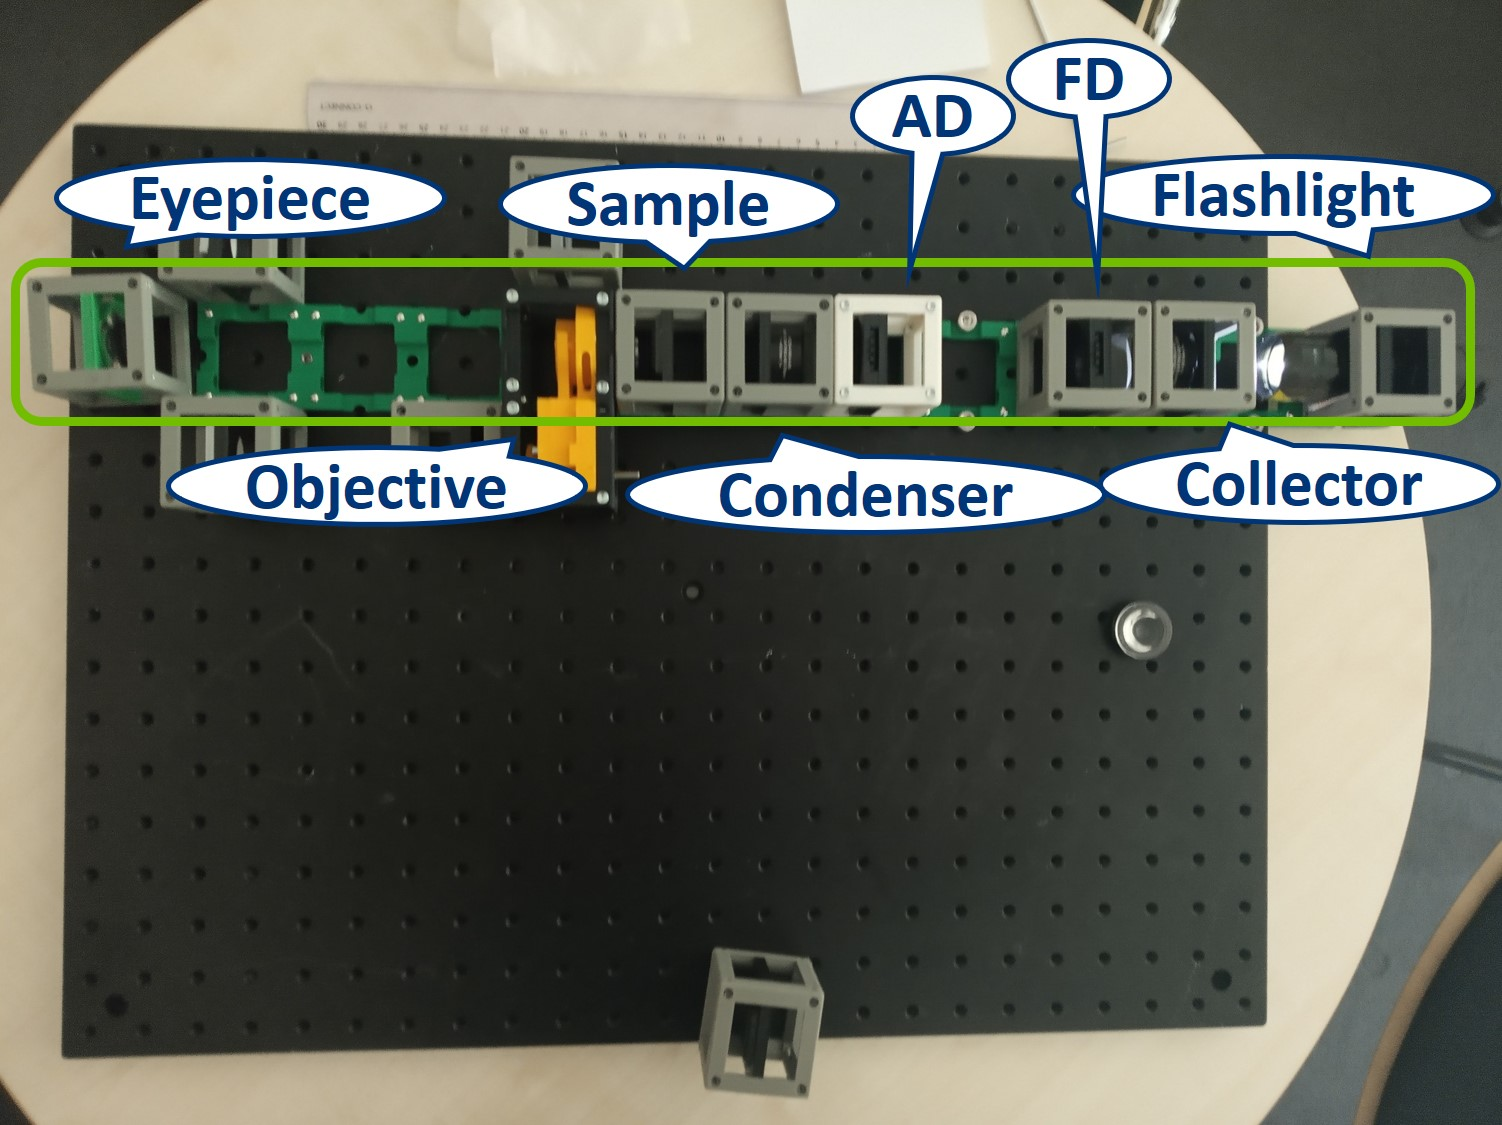
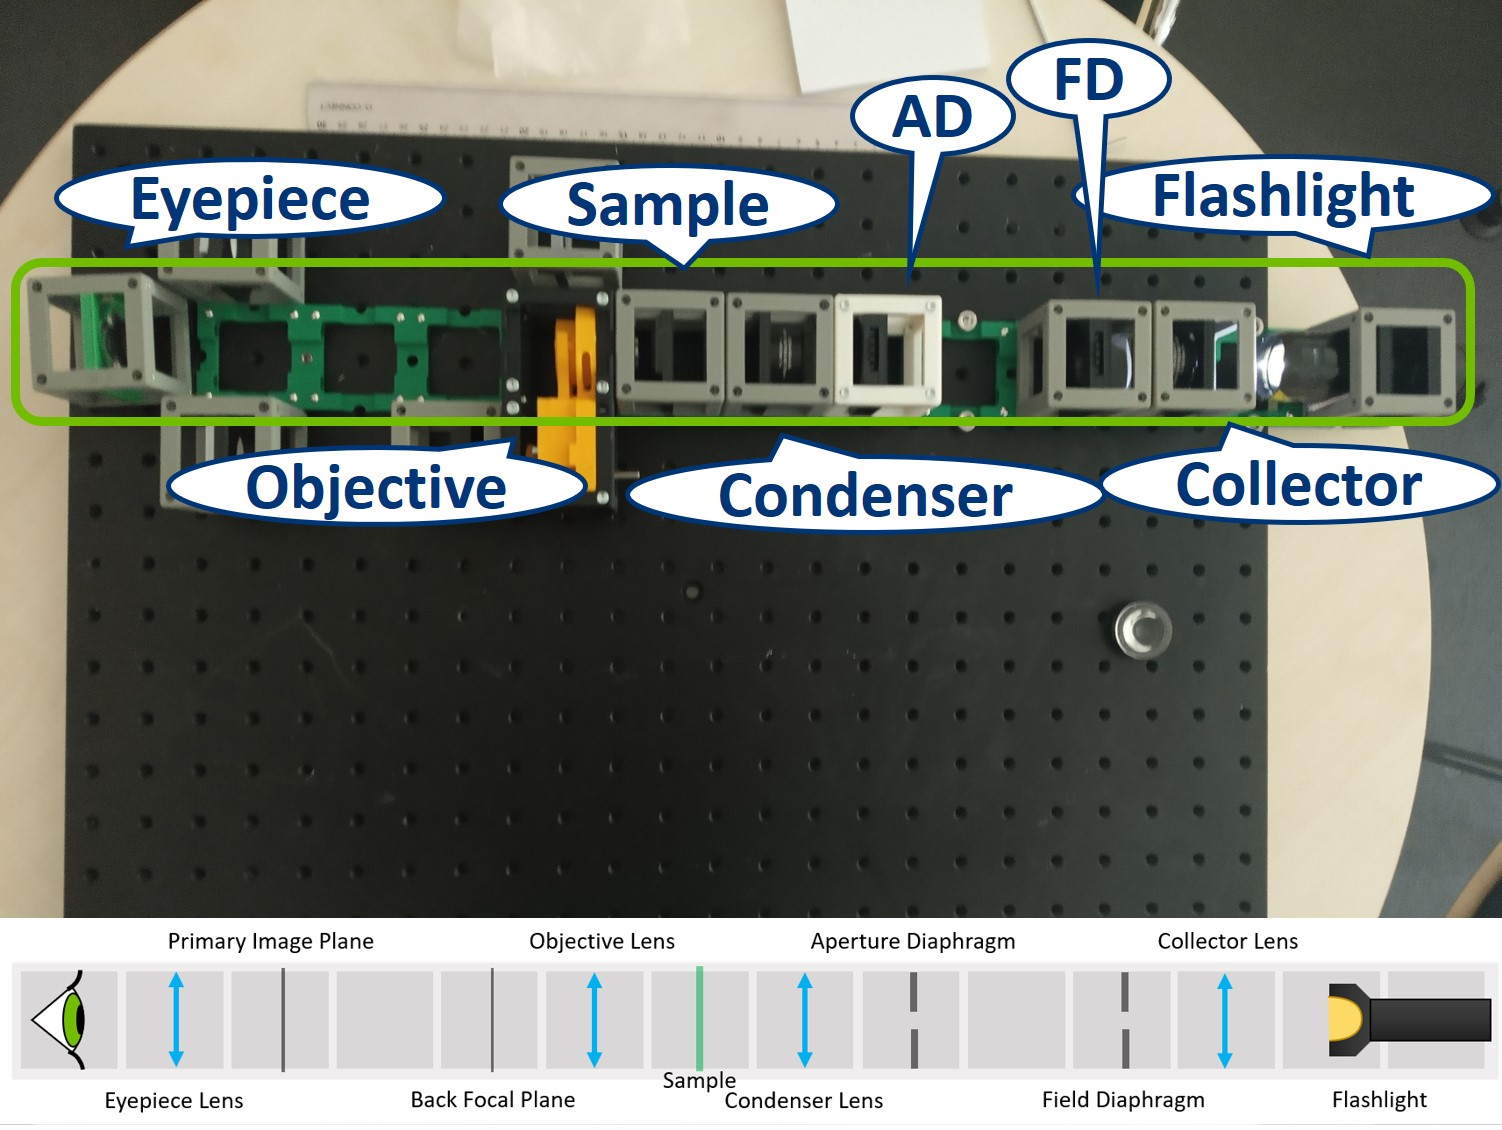
CoreBOX Documentation Updates

diff --git a/TheBOX/CoreBOX/ALIGNMENT/Readme.md b/TheBOX/CoreBOX/ALIGNMENT/Readme.md
@@ -1,8 +1,38 @@
 # The Core BOX Alignment Procedure
 
-## <img src="./IMAGES/E.png" height="40"> This tutorial will lead you step-by-step through the alignment of the Compound Microscope, Köhler illumination and Abbe Difraction Experiment.
+### First experiment: Finite-corrected Microscope with Köhler Illumination
+This experiment demonstrates the essential parts of a microscope and explains the concept of conjugate planes. The key components are: Light source, Collector lens, Field Diaphragm, Aperture Diaphragm, Condenser lens, Sample, Objective lens and Eyepiece lens.
+<p align="center">
+<img src="./IMAGES/CoreBOX_Setup1_01.png" width="800">
+</p>
+The Aperture set of conjugate planes: Lamp filament, Aperture diaphragm, Back Focal Plane of the objective, Exit pupil of the eye.
+<p align="center">
+<img src="./IMAGES/CoreBOX_Setup1_02.png" width="800">
+</p>
+The Field set of conjugate planes: Field diaphragm, Sample plane, Primary Image Plane, Retina.
+<p align="center">
+<img src="./IMAGES/CoreBOX_Setup1_03.png" width="800">
+</p>
+
+### Second experiment: Abbe Diffraction Experiment
+The famous Abbe Diffraction Experiments shows how diffraction of light by a specimen (and interference with the illuminating light) creates an image and how collection of diffracted light defines the resolution of the microscope. With this setup it is possbile to view both sets of conjugate planes at the same time, with one's eye or a camera.
+<p align="center">
+<img src="./IMAGES/CoreBOX_Setup2_01.png" width="800">
+</p>
+The Aperture set of conjugate planes: Lamp filament, Aperture diaphragm, Back Focal Plane of the objective, Mirror surface in the side arm, Retina.
+<p align="center">
+<img src="./IMAGES/CoreBOX_Setup2_02.png" width="800">
+</p>
+The Field set of conjugate planes: Field diaphragm, Sample plane, Primary Image Plan, Retina.
+<p align="center">
+<img src="./IMAGES/CoreBOX_Setup2_03.png" width="800">
+</p>
+We propose to use a diffraction grating as a sample and spatial filter in the BFP.
+
+## <img src="./IMAGES/E.png" height="40"> This tutorial will lead you step-by-step through the alignment of the Finite-corrected Microscope, Köhler Illumination and Abbe Diffraction Experiment.
 
 1. Start with 1×13 baseplate and all the cubes:
+
 
 
 1. Flashlight Cube
@@ -14,6 +44,8 @@
 1. Objective in Z-Stage Cube
 1. Eyepiece Lens Cube
 1. 4× Screen Cube - 1× with white paper, 3× with lens tissue
+
+
 
 <p align="center">
 <img src="./IMAGES/UC2_coreBOX_alignment_01.jpg" width="500">
@@ -156,10 +188,12 @@
 23. By adding 4 more cubes and another baseplate, we will now create the **Abbe Difraction Experiment**. The extra cubes are:
 
 
+
 1. Beamsplitter Cube
 1. Mirror 45° Cube
 1. Eyepiece Lens Cube (different *f'* than the previously used one!)
 1. Relay Lens Cube
+
 
 <p align="center">
 <img src="./IMAGES/UC2_coreBOX_alignment_37.jpg" height="375">

diff --git a/TheBOX/CoreBOX/Readme.md b/TheBOX/CoreBOX/Readme.md
@@ -24,7 +24,7 @@ Classical experiment for explaining Fourier transform done by a lens. The illumi
 <img src="./IMAGES/CoreBOX_Setup2.gif" width="1000">
 </p>
 
-#### Coming soon:
+#### Coming soon
 
 ### Laser Scanning Confocal Microscope
 Laser Scanning system is built on the detection side of the same setup. Scanning mirror can be rotated around one axis, which results in the translation of the point on the sample.
